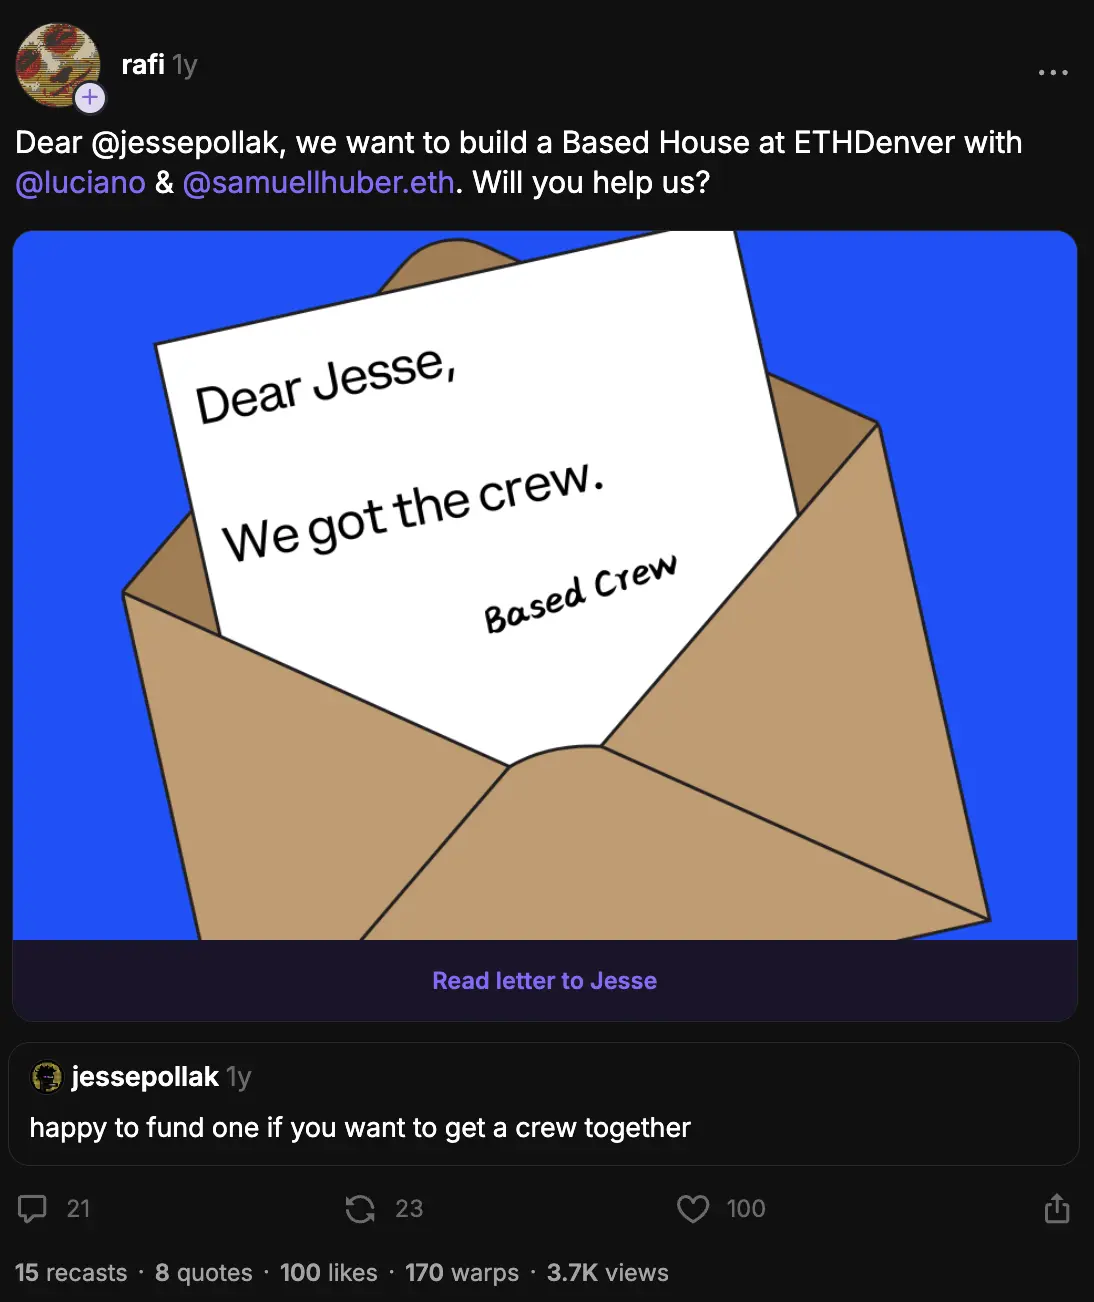
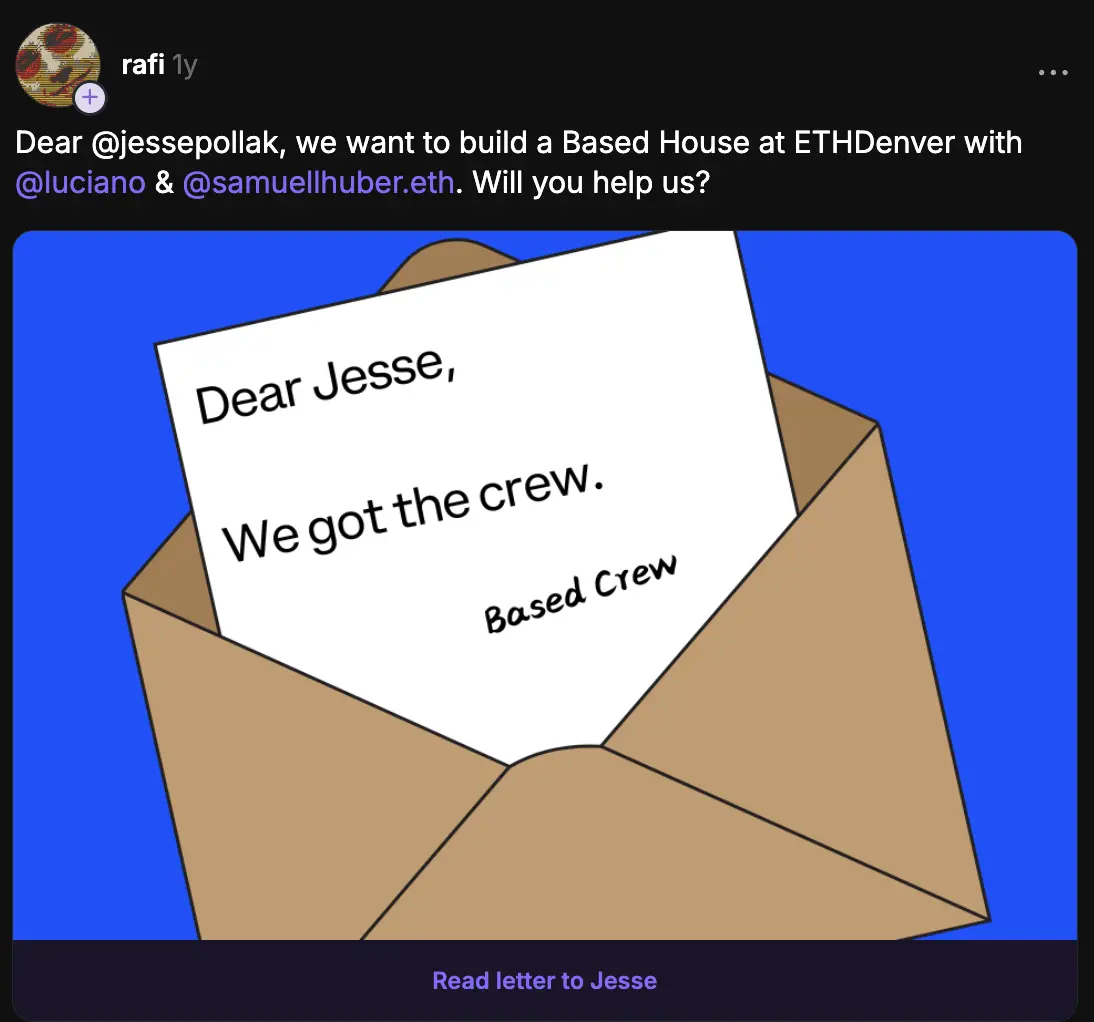
Fit the two letter photos to the card
The Jesse exchange loses the empty black to the right of its text, and
the letter cast is trimmed to the letter itself, since the reply below it
already appears in the first photo. Each cover photo now carries its pixel
size, and a pair shares the card width in proportion to their aspect
ratios, so the two stand at one height edge to edge with no gray beside
them, and the browser reserves their space before they load.

Claude-Session: https://claude.ai/code/session_01FBB5DLpQ4pRwWQqPVVwBkx

diff --git a/src/ui/Story.tsx b/src/ui/Story.tsx
@@ -365,36 +365,36 @@ function ChapterCard(props: {
 }
 
 /**
- * The photos on top of a card. One photo fills the width; two sit side by
- * side at one height on wider screens and stack on phones, each kept whole
- * so a screenshot stays readable. Each photo opens its source.
+ * The photos on top of a card. One photo fills the width. Two share the
+ * width in proportion to their aspect ratios, so they stand at one height
+ * with no margins between or beside them, and stack on phones. Each photo
+ * opens its source.
  */
 function Cover(props: { photos: CoverPhoto[] }) {
   const pair = props.photos.length > 1
 
   return (
-    <div
-      class={pair
-        ? "flex max-sm:flex-col sm:h-52 gap-1 bg-gray-100 sm:justify-center"
-        : "bg-gray-100"}
-    >
+    <div class={pair ? "story-pair bg-gray-100" : "bg-gray-100"}>
       {props.photos.map((photo) => (
         <a
           key={photo.src}
           href={photo.href}
           target="_blank"
           rel="noopener"
-          class={pair
-            ? "block min-w-0 sm:h-full transition-opacity hover:opacity-90 focus:outline-none focus-visible:ring-2 focus-visible:ring-inset focus-visible:ring-brand/60"
-            : "block transition-opacity hover:opacity-90 focus:outline-none focus-visible:ring-2 focus-visible:ring-inset focus-visible:ring-brand/60"}
+          style={pair
+            ? `--aspect: ${(photo.width / photo.height).toFixed(4)}`
+            : undefined}
+          class="block min-w-0 transition-opacity hover:opacity-90 focus:outline-none focus-visible:ring-2 focus-visible:ring-inset focus-visible:ring-brand/60"
         >
           <img
             src={photo.src}
+            width={photo.width}
+            height={photo.height}
             alt={photo.alt}
             loading="lazy"
             draggable={false}
             class={pair
-              ? "max-sm:w-full sm:h-full sm:w-auto max-w-full object-contain"
+              ? "w-full h-auto"
               : "w-full h-52 max-sm:h-44 object-cover"}
           />
         </a>

diff --git a/src/story.ts b/src/story.ts
@@ -13,9 +13,15 @@ export interface StoryLink {
   href: string
 }
 
-/** A photo on the cover of a chapter; clicking it opens href. */
+/**
+ * A photo on the cover of a chapter; clicking it opens href. The pixel size
+ * sets its share of the cover beside another photo and holds its space
+ * while it loads.
+ */
 export interface CoverPhoto {
   src: string
+  width: number
+  height: number
   alt: string
   href: string
 }
@@ -59,14 +65,18 @@ export const Chapters: Chapter[] = [
     cover: [
       {
         src: JesseHappyToFund,
+        width: 820,
+        height: 564,
         alt:
           "samuellhuber.eth asks on Farcaster whether there is a Base house at ETHDenver, and jessepollak replies: happy to fund one if you want to get a crew together",
         href: LetterToJesseV1Url,
       },
       {
         src: LetterToJesseCast,
+        width: 1094,
+        height: 1022,
         alt:
-          "rafi casts: Dear jessepollak, we want to build a Based House at ETHDenver with luciano and samuellhuber.eth. Will you help us? Below, an envelope reads Dear Jesse, we got the crew, and Jesse replies: happy to fund one",
+          "rafi casts: Dear jessepollak, we want to build a Based House at ETHDenver with luciano and samuellhuber.eth. Will you help us? Below, a letter in an envelope reads Dear Jesse, we got the crew. Based Crew",
         href: LetterToJesseV1Url,
       },
     ],
@@ -88,6 +98,8 @@ export const Chapters: Chapter[] = [
     cover: [
       {
         src: BasedHouseEthDenver,
+        width: 800,
+        height: 510,
         alt:
           "Residents gathered in the living room of Based House ETHDenver under the words Welcome to Base",
         href:

diff --git a/src/story.test.ts b/src/story.test.ts
@@ -30,14 +30,19 @@ test("every link is either on the web or on this page", () => {
     .toEqual([])
 })
 
-test("a cover holds at most two photos, each bundled with alt text", () => {
+test("a cover holds at most two photos, each sized and described", () => {
   expect(
     Chapters
       .filter((chapter) => chapter.cover)
       .map((chapter) => [
         chapter.id,
         chapter.cover!.length <= 2,
-        chapter.cover!.every((photo) => photo.src.length > 0 && photo.alt.length > 0),
+        chapter.cover!.every((photo) =>
+          photo.src.length > 0
+          && photo.alt.length > 0
+          && photo.width > 0
+          && photo.height > 0
+        ),
       ]),
   )
     .toEqual([

diff --git a/src/client.css b/src/client.css
@@ -81,6 +81,24 @@
     }
   }
 
+  /* Two cover photos: each grows in proportion to its aspect ratio, which
+     lands them at the same height across the full width of the card. */
+  .story-pair {
+    display: flex;
+    flex-direction: column;
+    gap: 0.25rem;
+  }
+
+  @media (min-width: 40rem) {
+    .story-pair {
+      flex-direction: row;
+    }
+
+    .story-pair > a {
+      flex: var(--aspect) 1 0%;
+    }
+  }
+
   .story-reel::-webkit-scrollbar {
     display: none;
   }
